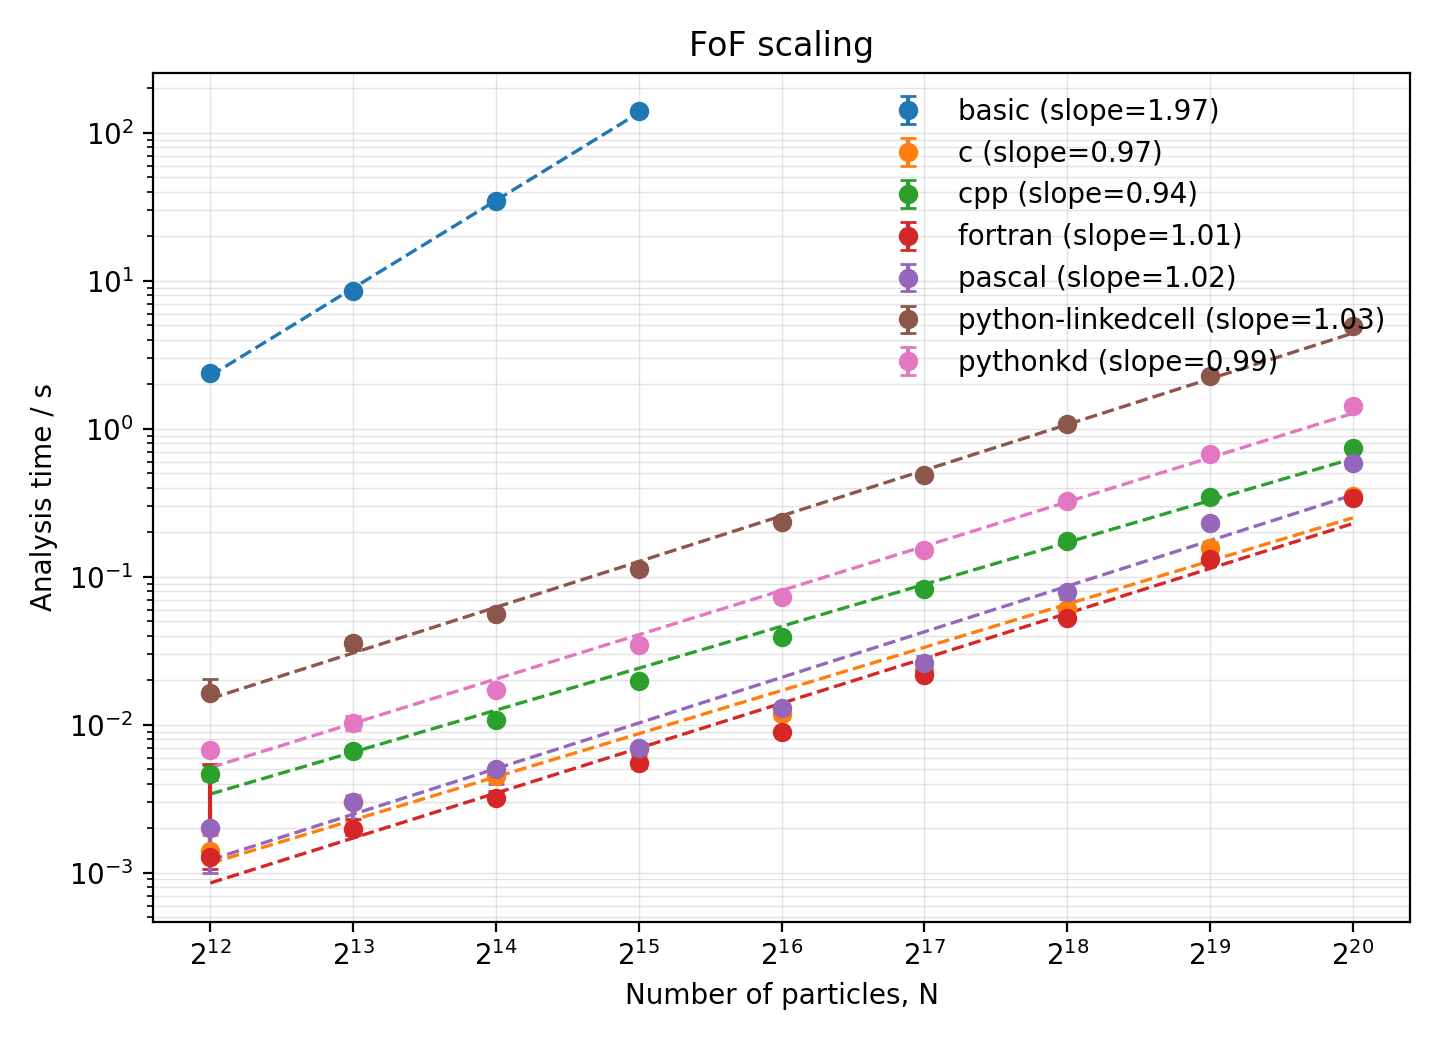
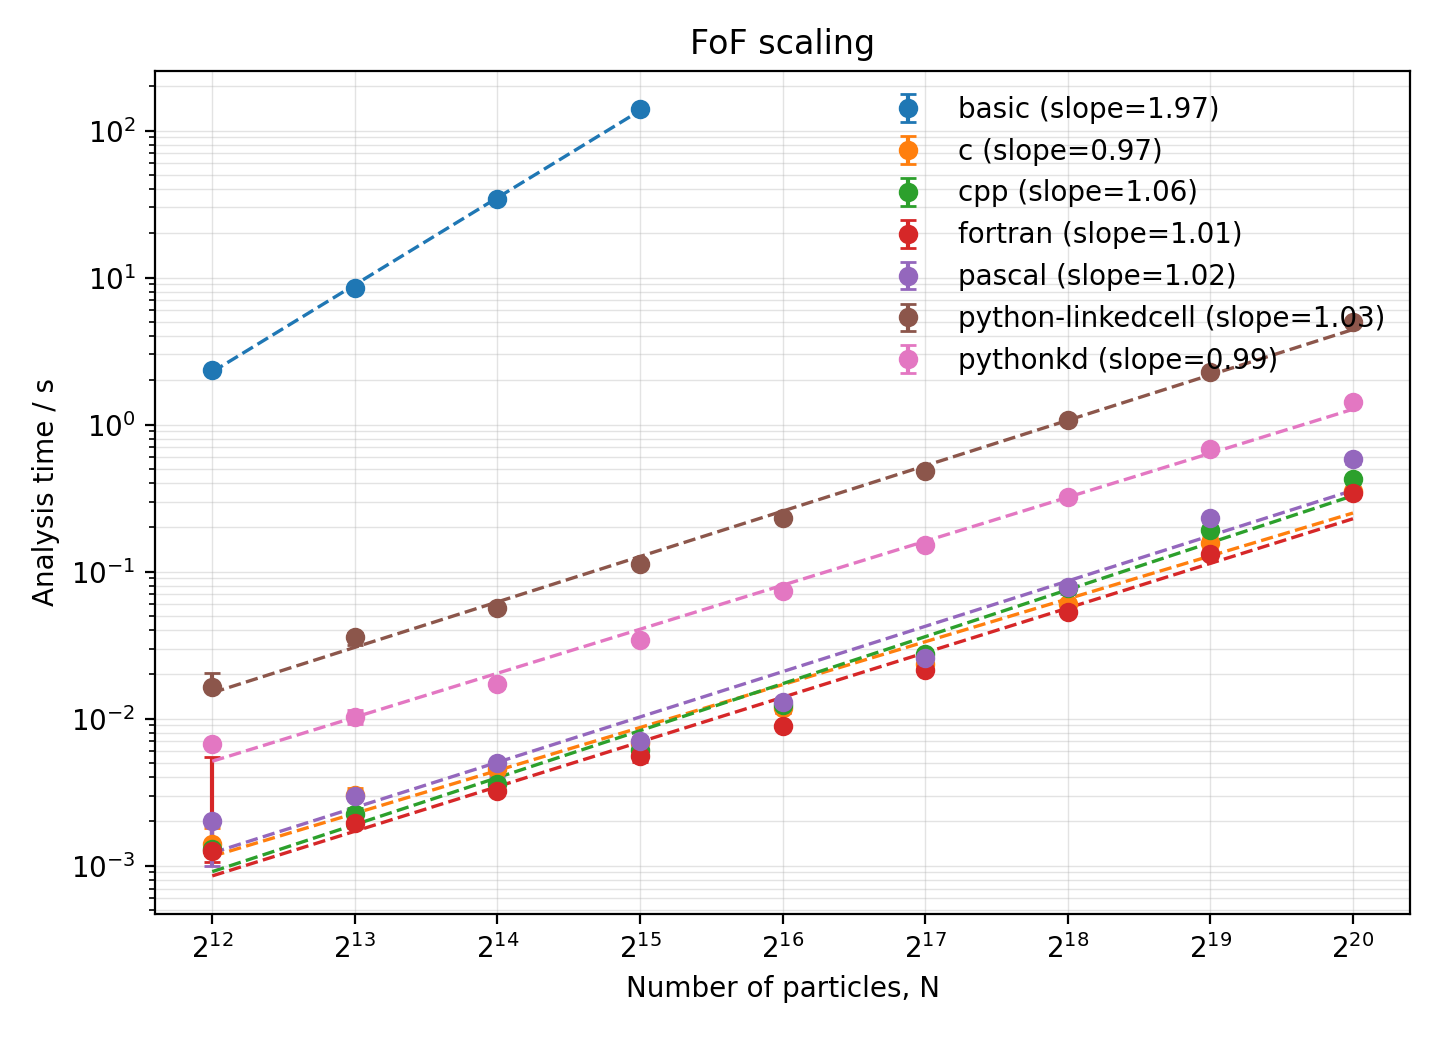
Update C++

Changed region(s): [[0.0, 0.0308, 1.0, 0.9846], [0.2812, 0.2154, 0.3125, 0.2462]]

diff --git a/find_cpp_fof_groups_cascade.c b/find_cpp_fof_groups_cascade.c
@@ -3,6 +3,7 @@
 #include <chrono>
 #include <cmath>
 #include <cstddef>
+#include <cstdint>
 #include <filesystem>
 #include <fstream>
 #include <iomanip>
@@ -135,45 +136,42 @@ struct FoFResult {
 class CellList {
 public:
     CellList(const ParticleSet &particles, double linking_length)
-        : particles_(particles) {
-        const double target_cell_size = 4.0 * linking_length;
-        ncell_ = static_cast<int>(std::floor(BOX_SIZE / target_cell_size));
+        : particles_(particles), cell_x_(particles.size()), cell_y_(particles.size()),
+          cell_z_(particles.size()), next_(particles.size(), -1) {
+        // Cells must be no wider than the linking length: with the 27-cell
+        // stencil this visits every possible link while keeping occupancy low.
+        // A dense grid at this resolution would be impractically large, so
+        // only occupied cells are stored in this open-addressing hash table.
+        ncell_ = static_cast<int>(std::floor(BOX_SIZE / linking_length));
         if (ncell_ < 1) ncell_ = 1;
-        cell_size_ = BOX_SIZE / static_cast<double>(ncell_);
-        ncell2_ = ncell_ * ncell_;
-        const std::size_t ncells = static_cast<std::size_t>(ncell_) *
-                                   static_cast<std::size_t>(ncell_) *
-                                   static_cast<std::size_t>(ncell_);
-
-        head_.assign(ncells, -1);
-        next_.assign(particles_.size(), -1);
+        capacity_ = 1;
+        while (capacity_ < 4 * particles_.size() + 16) capacity_ <<= 1;
+        keys_.assign(capacity_, -1);
+        heads_.assign(capacity_, -1);
 
         for (std::size_t i = 0; i < particles_.size(); ++i) {
-            const int cell = cell_index(particles_[i]);
-            next_[i] = head_[static_cast<std::size_t>(cell)];
-            head_[static_cast<std::size_t>(cell)] = static_cast<int>(i);
+            cell_x_[i] = coordinate_to_cell(particles_[i][0]);
+            cell_y_[i] = coordinate_to_cell(particles_[i][1]);
+            cell_z_[i] = coordinate_to_cell(particles_[i][2]);
+            const std::size_t slot = find_slot(cell_key(cell_x_[i], cell_y_[i], cell_z_[i]));
+            if (keys_[slot] == -1) keys_[slot] = cell_key(cell_x_[i], cell_y_[i], cell_z_[i]);
+            next_[i] = heads_[slot];
+            heads_[slot] = static_cast<int>(i);
         }
     }
 
     template <typename Callback>
     void for_candidate_pairs(Callback &&callback) const {
-        for (int cx = 0; cx < ncell_; ++cx) {
-            for (int cy = 0; cy < ncell_; ++cy) {
-                for (int cz = 0; cz < ncell_; ++cz) {
-                    const int cell = flat_index(cx, cy, cz);
-                    for (int i = head_[static_cast<std::size_t>(cell)]; i >= 0; i = next_[static_cast<std::size_t>(i)]) {
-                        for (int dx = -1; dx <= 1; ++dx) {
-                            const int nx = wrap_cell(cx + dx);
-                            for (int dy = -1; dy <= 1; ++dy) {
-                                const int ny = wrap_cell(cy + dy);
-                                for (int dz = -1; dz <= 1; ++dz) {
-                                    const int nz = wrap_cell(cz + dz);
-                                    const int neighbour_cell = flat_index(nx, ny, nz);
-                                    for (int j = head_[static_cast<std::size_t>(neighbour_cell)]; j >= 0; j = next_[static_cast<std::size_t>(j)]) {
-                                        if (j > i) callback(i, j);
-                                    }
-                                }
-                            }
+        for (std::size_t i = 0; i < particles_.size(); ++i) {
+            for (int dx = -1; dx <= 1; ++dx) {
+                const int nx = wrap_cell(cell_x_[i] + dx);
+                for (int dy = -1; dy <= 1; ++dy) {
+                    const int ny = wrap_cell(cell_y_[i] + dy);
+                    for (int dz = -1; dz <= 1; ++dz) {
+                        const int nz = wrap_cell(cell_z_[i] + dz);
+                        for (int j = head_for(cell_key(nx, ny, nz)); j >= 0;
+                             j = next_[static_cast<std::size_t>(j)]) {
+                            if (j > static_cast<int>(i)) callback(static_cast<int>(i), j);
                         }
                     }
                 }
@@ -184,10 +182,38 @@ public:
 private:
     const ParticleSet &particles_;
     int ncell_ = 1;
-    int ncell2_ = 1;
-    double cell_size_ = BOX_SIZE;
-    std::vector<int> head_;
+    std::size_t capacity_ = 1;
+    std::vector<std::int64_t> keys_;
+    std::vector<int> heads_;
+    std::vector<int> cell_x_;
+    std::vector<int> cell_y_;
+    std::vector<int> cell_z_;
     std::vector<int> next_;
+
+    static std::uint64_t hash_key(std::uint64_t value) {
+        value ^= value >> 33;
+        value *= UINT64_C(0xff51afd7ed558ccd);
+        value ^= value >> 33;
+        value *= UINT64_C(0xc4ceb9fe1a85ec53);
+        return value ^ (value >> 33);
+    }
+
+    std::int64_t cell_key(int x, int y, int z) const {
+        return static_cast<std::int64_t>(x) + static_cast<std::int64_t>(ncell_) *
+               (static_cast<std::int64_t>(y) + static_cast<std::int64_t>(ncell_) * z);
+    }
+
+    std::size_t find_slot(std::int64_t key) const {
+        const std::size_t mask = capacity_ - 1;
+        std::size_t slot = static_cast<std::size_t>(hash_key(static_cast<std::uint64_t>(key))) & mask;
+        while (keys_[slot] != -1 && keys_[slot] != key) slot = (slot + 1) & mask;
+        return slot;
+    }
+
+    int head_for(std::int64_t key) const {
+        const std::size_t slot = find_slot(key);
+        return keys_[slot] == key ? heads_[slot] : -1;
+    }
 
     int wrap_cell(int value) const {
         if (value < 0) return value + ncell_;
@@ -196,23 +222,12 @@ private:
     }
 
     int coordinate_to_cell(double x) const {
-        int cell = static_cast<int>(std::floor(x / cell_size_));
+        int cell = static_cast<int>(std::floor(x * static_cast<double>(ncell_)));
         if (cell < 0) cell = 0;
         if (cell >= ncell_) cell = ncell_ - 1;
         return cell;
     }
 
-    int flat_index(int cx, int cy, int cz) const {
-        return (cx * ncell_ + cy) * ncell_ + cz;
-    }
-
-    int cell_index(const Particle &particle) const {
-        return flat_index(
-            coordinate_to_cell(particle[0]),
-            coordinate_to_cell(particle[1]),
-            coordinate_to_cell(particle[2])
-        );
-    }
 };
 
 class FoFFinder {
